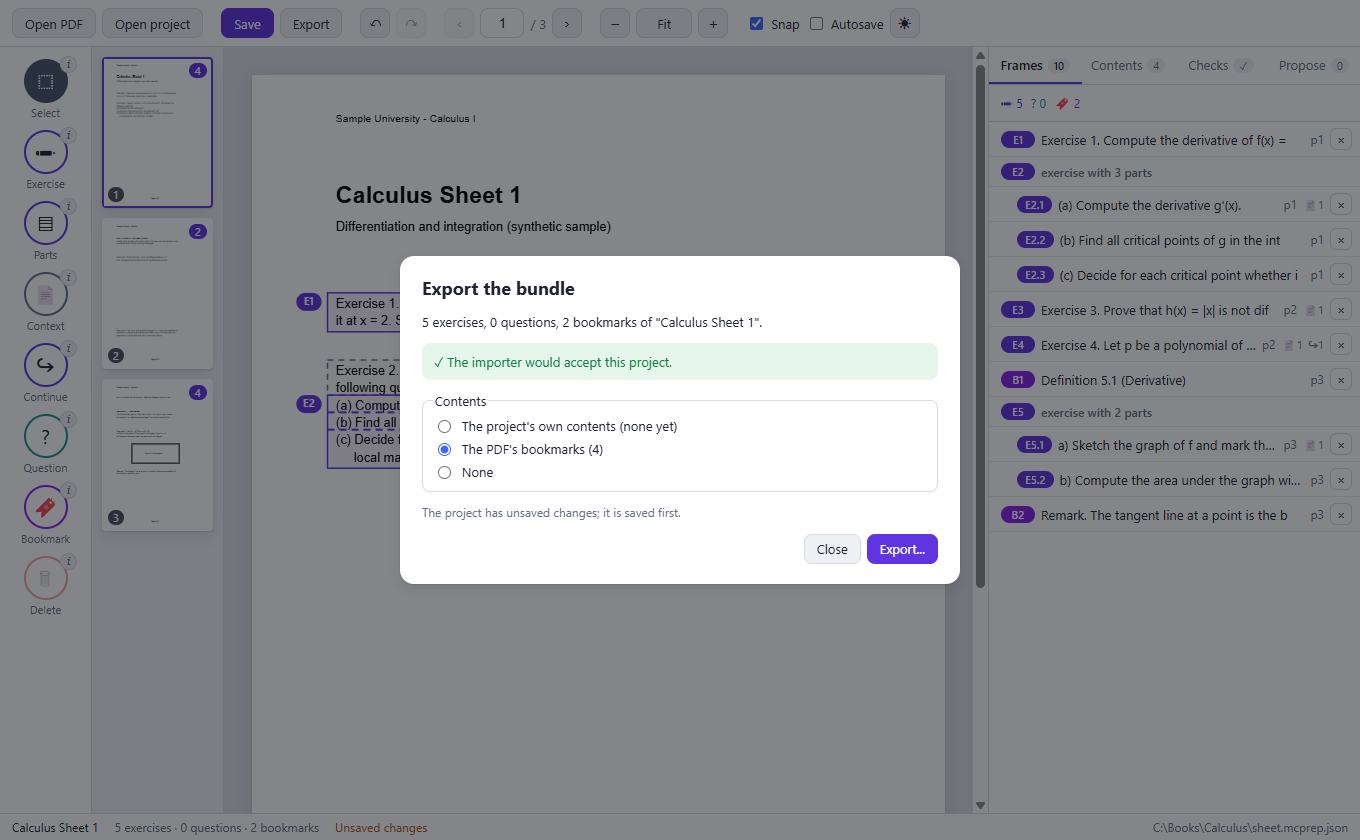
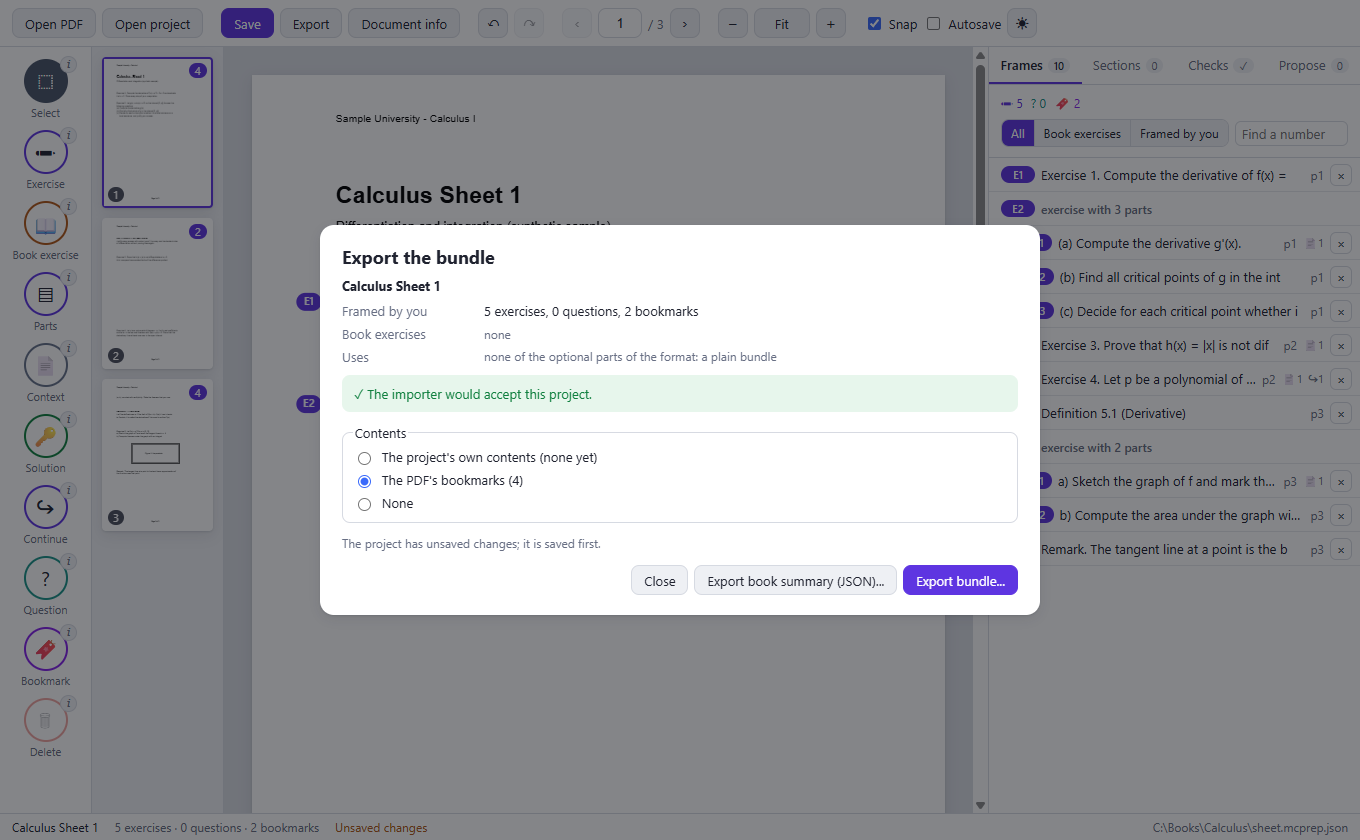
Desktop docs, three new screenshots and small fixes (checked before the merge of main, not yet after it)
DESKTOP.md describes the two kinds of exercise, solutions, the card, the Sections list, the
document information, the export dialog, the big book and what is not done; the agent guide
says how a person and an agent share a book; the README status line and counts follow. New
synthetic pictures: desktop-book, desktop-sections, desktop-book-export (the old contents
picture is gone, the other pictures are taken again). A drawn book exercise that waits for its
number is dropped when the page changes; the big-book test measures pauses with a timer, because
the long-task observer sees nothing in this window.

diff --git a/apps/desktop/test/big.e2e.test.ts b/apps/desktop/test/big.e2e.test.ts
@@ -96,6 +96,9 @@ describe.skipIf(!available)('the desktop app with a book of 5 000 exercises and 
     const target = (await framesOf(win())).find((frame) => frame.page === 0 && frame.label === '30') as { id: string };
     await win().locator('.frame[data-label="30"] .chip').first().click();
     expect(await stateOf(win(), (s) => s['selection'])).toBe(target.id);
+    // The list shows the frame that was chosen on the page.
+    await win().waitForSelector('.frames-list .frame-row.selected');
+    expect(await win().locator('.frames-list .frame-row.selected .chip').innerText()).toBe('30');
     // And so does its body.
     const body = await win().locator('.frame[data-label="31"] .body').first().boundingBox();
     expect(body).not.toBeNull();
@@ -106,12 +109,26 @@ describe.skipIf(!available)('the desktop app with a book of 5 000 exercises and 
   });
 
   it('stays smooth while scrolling the list, choosing frames in it and moving through the pages: no long pauses', async () => {
+    // The instrument: a timer every 20 ms in the window; how late it fires says how long the window was busy.
     await win().evaluate(() => {
-      const holder = window as unknown as { __long: number[] };
-      holder.__long = [];
-      new PerformanceObserver((list) => {
-        for (const entry of list.getEntries()) holder.__long.push(entry.duration);
-      }).observe({ entryTypes: ['longtask'] });
+      const holder = window as unknown as { __late: number[] };
+      holder.__late = [];
+      let last = performance.now();
+      setInterval(() => {
+        const now = performance.now();
+        holder.__late.push(now - last - 20);
+        last = now;
+      }, 20);
+    });
+    // It works: a pause of 150 ms made on purpose is seen (and then forgotten).
+    await win().evaluate(() => {
+      const until = performance.now() + 150;
+      while (performance.now() < until);
+    });
+    await win().waitForTimeout(100);
+    expect(Math.max(...(await win().evaluate(() => (window as unknown as { __late: number[] }).__late)))).toBeGreaterThan(100);
+    await win().evaluate(() => {
+      (window as unknown as { __late: number[] }).__late.length = 0;
     });
     // Scroll the list far down in steps, as a wheel does.
     const started = performance.now();
@@ -140,9 +157,10 @@ describe.skipIf(!available)('the desktop app with a book of 5 000 exercises and 
     for (let n = 0; n < 30; n += 1) await win().keyboard.press('ArrowRight');
     await win().waitForTimeout(300);
     timings['thirty pages with the arrow key'] = Math.round(performance.now() - walked);
-    const long = await win().evaluate(() => (window as unknown as { __long: number[] }).__long);
-    timings['longest pause'] = Math.round(Math.max(0, ...long));
-    expect(Math.max(0, ...long)).toBeLessThan(700);
+    const late = await win().evaluate(() => (window as unknown as { __late: number[] }).__late);
+    timings['longest pause'] = Math.round(Math.max(0, ...late));
+    expect(late.length).toBeGreaterThan(20);
+    expect(Math.max(0, ...late)).toBeLessThan(700);
   });
 
   it('lists by section, filters and finds by number', async () => {

diff --git a/apps/desktop/test/book.test.ts b/apps/desktop/test/book.test.ts
@@ -289,6 +289,15 @@ describe('the store: two kinds of exercise', () => {
     expect(store.state.project?.frames.map((frame) => frame.label).sort()).toEqual(['1', '2']);
   });
 
+  it('drops a drawn exercise that is waiting for its number when another page is shown', async () => {
+    const { store } = await started();
+    store.startDraft(0, row(0.33));
+    store.setPage(0);
+    expect(store.state.draft).not.toBeNull();
+    store.setPage(1);
+    expect(store.state.draft).toBeNull();
+  });
+
   it('keeps the form open and says what is wrong, in plain words, when the exercise cannot be filed', async () => {
     const { store } = await started(workbook({ exercises: true }));
     store.startDraft(0, row(0.5));

diff --git a/apps/desktop/src/renderer/logic/store.ts b/apps/desktop/src/renderer/logic/store.ts
@@ -479,7 +479,8 @@ export class Store {
     const { doc } = this.state;
     if (!doc) return;
     const clamped = Math.min(Math.max(0, Math.trunc(page)), doc.pageSizes.length - 1);
-    this.set({ page: clamped });
+    // A book exercise that was drawn and is waiting for its number belongs to the page it was drawn on.
+    this.set({ page: clamped, ...(this.state.draft !== null && this.state.draft.page !== clamped ? { draft: null } : {}) });
     void this.ensureText(clamped);
   }
 

diff --git a/docs/DESKTOP.md b/docs/DESKTOP.md
@@ -5,8 +5,10 @@ The desktop app is a visual editor for the same **project file** (`<name>.mcprep
 change and every check, so what it saves is what `mcprep validate` accepts, and what an agent saves shows up in the
 window within a second or two.
 
-It is for a person who wants to look at the page while marking it, or to review what an agent proposed. Nothing
-about it is required: an agent can do the whole job with [the command line](CLI.md) or [the MCP server](MCP.md).
+It is for a person who wants to look at the page while marking it, to review what an agent proposed, or to **audit a whole
+book once as an authority**: its exercises with the numbers the book prints, filed under the sections of the book, with the
+answers of the answer key attached as hidden solutions. Nothing about it is required: an agent can do the whole job with
+[the command line](CLI.md) or [the MCP server](MCP.md).
 
 ![The editor: an exercise with three parts selected, with its slicers and handles](img/desktop-editor.png)
 
@@ -37,18 +39,22 @@ Notes:
 
 ## Working in the window
 
-Top bar: **Open PDF**, **Open project**, **Save**, **Export**, undo and redo, the page pager, zoom (`Fit` fits the page to
-the width of the window), **Snap**, **Autosave** and the theme (system, dark, light). Left: the tools. Next to them: thumbnails with
-the number of frames on each page. Right: the panels. Bottom: the title, the counts, the save state and the project file.
+Top bar: **Open PDF**, **Open project**, **Save**, **Export**, **Document info**, undo and redo, the page pager, zoom (`Fit` fits
+the page to the width of the window), **Snap**, **Autosave** and the theme (system, dark, light). Left: the tools. Next to them:
+thumbnails with the number of frames on each page. Right: the card of the selected frame and the panels. Bottom: the title, the
+counts, the save state and the project file.
 
-Every tool has a small **i** next to it that says in one sentence what it does.
+Every tool has a small **i** next to it that says in one sentence what it does. A line above the page says what the tool in use
+will do and, for the tools that attach something to an exercise, which exercise that is.
 
 | Tool (key) | What it does |
 | --- | --- |
 | Select (V) | Click a frame to select it. Drag it to move it, drag a handle to resize it. The handles sit outside the outline. |
-| Exercise (E) | Drag around one exercise. A click on a line makes a one-line frame across the text block that line belongs to. |
-| Parts (P) | Drag around an exercise with parts. It is cut where the markers `(a)`, `(b)`, `1.`, ... are found, else once in the middle. A click on an existing frame cuts it. |
-| Context (C) | Select an exercise, then drag around its instruction or shared statement. |
+| Exercise (E) | Drag around one exercise you frame for yourself. A click on a line makes a one-line frame across the text block that line belongs to. |
+| Book exercise (A) | Drag around one exercise as the book prints it, then give its printed number and its section (see below). |
+| Parts (P) | Drag around an exercise with parts. It is cut where the markers `(a)`, `(b)`, `1.`, ... are found, else once in the middle. A click on an existing frame cuts it. Not for book exercises. |
+| Context (C) | Select an exercise (of either kind), then drag around its instruction or shared statement, on any page. |
+| Solution (L) | Select an exercise, go to the answer key (any page of the same PDF), then drag around its answer. Hidden from the learner. |
 | Continue (N) | Select a frame, then drag where it goes on (the next column or page). |
 | Question (Q) | Drag around what you want to ask the tutor about. |
 | Bookmark (B) | Drag around a definition or theorem to keep. |
@@ -62,30 +68,91 @@ at a slicer to join the two parts. The parts always tile the exercise exactly, s
 command line), so that a frame never cuts a line. It does not apply to scanned pages that have no text; there you place
 the edges by eye.
 
-The labels on the frames (E1, E2.1, B1, ...) are the numbers the Math Canvas app will show: they are computed from the
-position on the page (never stored) and renumber themselves when you add or remove a frame.
+The labels on the frames of exercises you framed yourself (E1, E2.1, B1, ...) are the numbers the Math Canvas app will show:
+they are computed from the position on the page (never stored) and renumber themselves when you add or remove a frame.
 
-Keys: `V E P C N Q B` choose a tool, `S` toggles snap, `Delete` removes the selected frame, `Esc` closes a dialog, leaves
-a tool, or deselects. `←` `→` (or `PageUp` `PageDown`) change the page, `+` `−` `0` zoom, `Ctrl+Z` undo, `Ctrl+Y` or
+Keys: `V E A P C L N Q B` choose a tool, `S` toggles snap, `Delete` removes the selected frame, `Esc` closes a dialog or a
+form, leaves a tool, or deselects. `←` `→` (or `PageUp` `PageDown`) change the page, `+` `−` `0` zoom, `Ctrl+Z` undo, `Ctrl+Y` or
 `Ctrl+Shift+Z` redo, `Ctrl+S` save, `Ctrl+E` export, `Ctrl+O` and `Ctrl+Shift+O` open a PDF or a project.
+
+### Two kinds of exercise
+
+- An **ordinary exercise** (tool Exercise, label `E1`, `E2.1`, ...) is one a person frames for themselves: free, positional
+  numbers, it can be cut into parts.
+- A **book exercise** (tool Book exercise, amber, a label with square corners) was audited from a book: it carries **the number
+  the book prints** (`5`, `5a`, `A.3`) and the **section** it is printed in, it is a single exercise, and it never has a
+  positional number. Both kinds can live in one project.
+
+After you draw a book exercise a small form asks for its **printed number** and its **section**. The section offered is the one
+at that place of the page (the deepest section of the outline that has an id and contains the position); the number offered is
+the next one in that section: the previous one plus 1, or `5b` after `5a`. So auditing a section is: draw, press Enter, draw,
+press Enter. The form says in plain words what is wrong (an empty or impossible number, a number the section already has, no
+section here) and `Esc` throws the drawing away. Nothing is added to the project until the form is confirmed.
+
+The **card** at the top of the side panel is the menu of the selected frame:
+
+- the printed number and the section of a book exercise, editable (one undoable step each);
+- **Make it a book exercise...** (the same form) and **Make it an ordinary exercise**, with the rules of the core: an exercise
+  with parts has to be joined first (the card has **Join the parts**), a number a section already has is refused;
+- its **context**, its hidden **solution** and its continuations: what is printed under each region, a button to show it on its
+  page (it is marked for a moment) and a button to remove it;
+- **Parts**: **Cut into parts** or **Join the parts** for an ordinary exercise; for a book exercise the button is off, with an
+  **i** that says why (the parts `5a` and `5b` of a printed exercise are two exercises with two labels; what they share, the
+  statement printed once, is context on each). The Parts tool says the same when you click a book exercise, and the core
+  refuses `split`, `dividers`, `area` and `merge` for it anyway.
+
+The core's messages are written for the command line; the window shows the rule in plain words (never a command to type).
+
+### Solutions
+
+A **solution** is a region of the same PDF, usually in the answer key at the back, that only the grader gets. Select the
+exercise, choose the Solution tool, go to the answer key (the exercise stays selected while the page changes) and drag around its
+answer. Solution regions are drawn **green and dashed with an `S` marker** and the number of the exercise, faintly for all
+exercises and strongly for the selected one, whose regions have a button to remove them right there. Clicking a region selects its
+exercise. The card lists them under "hidden from the learner" with what is printed under each; clicking one goes there. An exercise
+may have up to eight regions of each kind. A solution is never shown with the exercise, never sent to a tutor chat, and used only
+to grade (see [BUNDLE_FORMAT.md](BUNDLE_FORMAT.md)).
 
 ### The panels
 
-- **Frames** lists every frame in reading order with its label, its first words, its page and its context and
-  continuation markers. A click shows the page and scrolls the frame into view.
-- **Contents** is the table of contents that goes into the bundle: the project's own, or else the PDF's bookmarks. You can
-  copy the PDF's bookmarks to edit them, ask for headings found in the text (**Find headings**, offline), then rename,
-  indent, move, retarget or remove entries. Every entry shows how many exercises, questions and bookmarks it holds.
-- **Checks** runs the same validation as `mcprep validate`. A click on a message goes to the frame it is about.
-  A change that would add a new error is refused with a message that says why, like on the command line.
-- **Propose** reads the printed text of the whole PDF **offline, without any AI**, and suggests exercises, parts,
-  context and bookmarks. They appear as dashed ghost frames with a confidence; the **i** next to each says what the
-  suggestion is based on. Accept or reject one by one, or all at once. Nothing is changed until you accept. Accepted
-  exercises with a shared statement get it as context of their parts, which is the recommended convention.
+- **Frames** lists every frame with its label, its first words, its page and icons for its context (📄), solution (🔑) and
+  continuation (↪). Book exercises are **grouped by section** in the order of the book with the number the book prints, each group
+  in the order a book counts (2 before 10, `5a` before `5b`); what you framed yourself follows in reading order. A filter picks
+  **All**, **Book exercises** or **Framed by you**; the search finds a number (`5a`, `1.2:5a`) or a frame id; a click on a section
+  folds it, `↗` goes to its heading, and a click on a row shows the frame on its page and scrolls it into view (also the other way:
+  a frame chosen on the page is shown in the list). The list draws only the rows in view.
+- **Sections** is the table of contents that goes into the bundle: the project's own, which are the sections book exercises are filed
+  under. Each row shows the printed number, the title, the page, the id, the number of book exercises (own, and with everything
+  below in brackets) and how many of them have a solution. A click goes to the heading; folding hides a subtree; a filter shows the
+  sections still **without exercises**, with **exercises without a solution**, or **with problems**; the search finds a title, number
+  or id. **Add a section** (after the selected one, or **a subsection**), and for the selected section: title, printed number, id,
+  the page it starts on and where its heading is (type it, or **Pick the heading on the page** and click the line; the headings
+  are marked on the page while the panel is open), **Outdent/Indent** and **Move up/down** (always with everything below it) and
+  **Delete...** (the book exercises filed under it are moved to another section you choose first). Renaming an id takes the
+  exercises along. The list warns about ids used twice, sections without an id (with **Give ids**), and book exercises filed under
+  a section that does not exist. **Use the PDF's bookmarks** makes the PDF's own bookmarks the sections (with ids), **Find
+  headings** looks for headings in the printed text (offline), and **Use the PDF's contents** removes the project's own contents.
+- **Checks** runs the same validation as `mcprep validate`. A click on a message goes to the frame it is about. The rules about
+  books say what to do on the screen (not a command). A change that would add a new error is refused with a message that says why,
+  like on the command line.
+- **Propose** reads the printed text of the whole PDF **offline, without any AI**, and suggests exercises, parts, context and
+  bookmarks. They appear as dashed ghost frames with a confidence; the **i** next to each says what the suggestion is based on.
+  Accept or reject one by one, or all at once. Nothing is changed until you accept. Accepted exercises with a shared statement get
+  it as context of their parts, which is the recommended convention. Proposals are exercises you frame yourself; turn one into a
+  book exercise from the card.
+
+![A book exercise selected: the card with its context and hidden solution, the list by section, the printed numbers on the page](img/desktop-book.png)
+
+![The Sections: the outline as a tree with the book exercises and solutions under each section, the heading marked on its page](img/desktop-sections.png)
 
 ![Proposals as ghost frames, with the list of what was found and why](img/desktop-propose.png)
 
-![The contents with the number of exercises, questions and bookmarks of each section](img/desktop-contents.png)
+### Document information
+
+**Document info** sets what the bundle says about the work: the title and folder the library shows, the author, series,
+description, **licence** (name and address), the **source address** and the **notice** a licence asks to be shown with the work.
+The limits of the format are said next to each field (a licence address needs its name, an address starts with `http://` or
+`https://`); copy the licence and the notice from the book itself, do not make them up. It is one undoable step.
 
 ### Saving and exporting
 
@@ -94,10 +161,17 @@ program saved in the meantime, nothing is overwritten (see below). **Autosave** 
 until you turn it on. A failed save stays visible in the status bar and in a message. Closing the window with unsaved
 changes asks first.
 
-**Export** (`Ctrl+E`) shows the validation first. It lets you choose which contents go into the bundle (the project's own,
-the PDF's bookmarks, or none), saves the project if needed, writes the `.mcbundle`, and runs the importer check on the
-result before it says it worked. Afterwards **Show in folder** opens the folder and **Copy to a folder...** copies the
-bundle, for example into the folder the tablet imports from.
+**Export** (`Ctrl+E`) says what is about to be written before it is: the **optional parts of the format the bundle uses**
+(Sections, Book exercises, Hidden solutions; an app that does not know one ignores it), what it contains (the exercises, questions
+and bookmarks you framed, the book exercises per section and how many have a solution), the validation and its warnings. It lets
+you choose which contents go into the bundle (the project's own, the PDF's bookmarks, or none; a project with book exercises
+keeps its own, because they are filed under it), saves the project if needed, writes the `.mcbundle`, and runs the importer check
+on the result before it says it worked, with the result of each of the importer's steps. Afterwards **Show in folder** opens
+the folder and **Copy to a folder...** copies the bundle, for example into the folder the tablet imports from. **Export book summary
+(JSON)...** next to **Export bundle...** writes the plain JSON summary of the book (the sections with the number of book exercises
+and solutions in each, and each section's exercises) that `mcprep book export --exercises` writes, for other programs.
+
+![The export dialog of a book: the parts of the format it uses, what it holds per section](img/desktop-book-export.png)
 
 ![The export dialog: the importer would accept this project](img/desktop-export.png)
 
@@ -113,23 +187,40 @@ The window watches the project file. When a program such as `mcprep` or an MCP c
 
 An agent that edits the file while the window is open therefore needs no special care: it can work through the command
 line as usual, and the person sees the result and can correct it by hand. The window compares the content as well as the
-revision, so a change made with a text editor that did not raise the revision is noticed too.
+revision, so a change made with a text editor that did not raise the revision is noticed too. A book exercise that has been drawn
+but not yet confirmed in its form is not in the file; it is dropped when the page changes.
 
 ![The dark theme: the instruction shared by Exercises 3 and 4 is context, shown dashed](img/desktop-dark.png)
+
+## A big book
+
+A book can have thousands of exercises (two-column practice pages carry 44 small frames on one page) and hundreds of sections. The
+window keeps what it computes per version of the project (the lookups of the frames, the sections with their counts, the checks)
+instead of per keystroke, draws only the frames of the page that shows, makes the labels as tall as their frames allow and puts
+each in the free space beside its frame (hovering a frame, or selecting it, enlarges its label), and keeps the lists to the rows in
+view. The text of the pages is read in the background and checked once, not after every few pages. The selected frame's handles
+sit under its neighbours, so that a click on a neighbour selects the neighbour.
+
+`apps/desktop/test/helpers/big-book.ts` builds a synthetic workbook of 5,000 book exercises, 100 sections and an answer key of
+5,000 regions. On the Windows machine it was developed on, the built window shows it about a second after the program starts, has
+read the text of all 135 pages a second or two later, and then takes a fraction of a second for each of: choosing a frame in the
+list, drawing a book exercise and confirming its form, saving, and taking over a change the command line made. While the list was
+scrolled five times, a frame chosen in it and thirty pages turned, the window was never busy for more than about a tenth of a second.
+The tests assert generous limits (a slow or busy machine), not these numbers.
 
 ## What the window can and cannot do
 
 The window is built so that opening a document you did not write is safe, and so that nothing leaves the computer:
 
 - The page code has **no Node access** (sandbox, context isolation, no integration). The only bridge to the rest of the
-  system is a fixed list of 18 functions (open, read the PDF of the open project, read the text of a page, propose,
-  save, export, ...); the test suite checks the list.
+  system is a fixed list of 19 functions (open, read the PDF of the open project, read the text of a page, propose,
+  save, export the bundle, export the book summary, ...); the test suite checks the list.
 - It is served from the application folder under its own `mcprep-app://` address with a strict content policy
   (`default-src 'none'`, no inline script, no network). Every request to `http`, `https`, `ws`, `wss` or `ftp` is cancelled.
   Permission requests are denied. Navigation and new windows are blocked. The developer tools exist only in a checkout,
   not in the packaged application.
-- There is no telemetry, no update check, no account, no AI call. The PDF is read from where it is; the only copy that is ever
-  made is the one inside a bundle you export (and the one you copy to a folder yourself).
+- There is no telemetry, no update check, no account, no AI call. The PDF is read from where it is; the only copies that are ever
+  made are the one inside a bundle you export (and the one you copy to a folder yourself) and the summary file you ask for.
 - It stores a list of the twelve most recent projects (title and path; one that no longer exists is not offered) in the
   operating system's user-data folder for the application, and the preferences (theme, snap, autosave) in the window's local
   storage. Nothing else.
@@ -150,18 +241,34 @@ macOS and Linux targets are written down in the configuration but have not been 
 
 ## Tests
 
-- `apps/desktop/test/logic.test.ts` (26 tests): the editor's state, geometry, undo, saving, conflicts, proposals,
-  contents; no window needed. It runs with `npm test`.
-- `apps/desktop/test/app.e2e.test.ts` (17 tests): the built application driven by Playwright like a person (real mouse and
-  keyboard): drawing with snapping, moving, resizing, slicers, saving, an agent editing the file, the conflict dialog,
-  export and import check, proposals, the lock-down. It needs a display and the built bundle, so it is not part of the
-  continuous integration: `npm run build && npm run test:e2e`.
-- `npm run screenshots --workspace @mcprep/desktop` takes the pictures on this page from the synthetic sample.
+- `apps/desktop/test/*.test.ts` (102 tests, no window needed, they run with `npm test`): `logic.test.ts` the editor's state,
+  geometry, undo, saving, conflicts, proposals; `book.test.ts` printed numbers, the form's suggestions, the two kinds of exercise,
+  solutions and the plain words of the core's refusals, labels on a crowded page; `sections.test.ts` the rows of the Sections list
+  and every change of the outline; `info.test.ts` the document information and what the export dialog says; `perf.test.ts` the
+  synthetic big book (5,000 exercises, 100 sections): the work of the lists, the page and the store, and that it grows in step with
+  the book.
+- `apps/desktop/test/app.e2e.test.ts` (17 tests), `book.e2e.test.ts` (25) and `big.e2e.test.ts` (10): the built application driven
+  by Playwright like a person (real mouse and keyboard): drawing with snapping, moving, resizing, slicers, saving, an agent
+  editing the file, the conflict dialog, export and import check, proposals, the lock-down; the audit of a synthetic workbook
+  (book exercises with their forms, mark and unmark, context and solutions, the Sections list, the document information, the export
+  dialog and the summary, all read back by the command line); and the big book (opening, scrolling, choosing, drawing, saving,
+  live reload, readable labels). They need a display and the built bundle, so they are not part of the continuous integration:
+  `npm run build && npm run test:e2e`.
+- `npm run screenshots --workspace @mcprep/desktop` takes the pictures on this page from the synthetic samples.
 
 ## Known gaps
 
 - Mouse and keyboard first. Touch and pen input are not tuned, and the window is not meant for a small screen.
-- One window and one document at a time; no copy and paste of frames; no selecting several frames at once.
+- One window and one document at a time; no copy and paste of frames; no selecting several frames at once (so turning many
+  exercises into book exercises, or giving many the same context or section, is one at a time).
+- **Derive sections** (finding the chapters and sections of a book from its printed text, with ids and heading positions), and
+  proposals of book exercises and of solutions from the answer key, are not in the window yet: **Find headings** and **Propose**
+  suggest ordinary headings and exercises only, and a person (or an agent with the command line) files them under sections. The
+  Sections panel and the editor logic have a reserved place for them.
+- The number offered for a book exercise is the previous one plus 1 (or `5b` after `5a`); it does not know a book's jumps or
+  other ways of counting, so it is edited where the book differs.
+- A solution region is drawn one at a time for one exercise; there is no "this answer, then the next line for the next exercise".
+- The tree of sections is changed with buttons (deeper, shallower, up, down); there is no drag and drop.
 - A frame lies on one page; something that continues is marked with a continuation, as in the format.
 - The installer does not register `.pdf` or `.mcprep.json` with the system, and has no icon of its own.
 - Scanned pages have no text to snap to or to propose from; frames are placed by hand (see the

diff --git a/README.md b/README.md
@@ -21,7 +21,7 @@ Chapter 14 of the [agent guide](docs/AGENT_GUIDE.md) describes it; a transcript 
 | `packages/core` | Works. Model, rules, numbering, PDF reading and rendering, proposals, project file, bundle writer and importer check; authoritative book exercises, hidden solution regions, sections, document information (licence, notice) and the book summary. 598 tests. |
 | `packages/cli` (`mcprep`) | Works. The whole workflow, `--json` everywhere, and the audit of a book: `exercises`, `solution`, `book` and `outline` commands. 69 tests, plus two end-to-end tests of the built binary. |
 | `packages/mcp` | Works. 49 tools over stdio. 12 tests, plus an end-to-end test of the built server. |
-| `apps/desktop` | Works on Windows (packaged and run). A visual editor with live reload of changes an agent makes to the file. 26 unit tests and 17 end-to-end tests that drive the built application. Not signed, no icon of its own, not tried on macOS or Linux: see [docs/DESKTOP.md](docs/DESKTOP.md). It has no screens yet for book exercises, solutions and sections: a project that has them still opens and saves, and the command line and the MCP server edit them. |
+| `apps/desktop` | Works on Windows (packaged and run). A visual editor with live reload of changes an agent makes to the file, and for auditing a book: book exercises with their printed numbers and sections, hidden solutions drawn on the answer key, the list of sections, the licence and notice of the document, an export that says which parts of the format the bundle uses and checks it as the importer does, and lists that stay quick with 5,000 exercises. 102 unit tests and 52 end-to-end tests that drive the built application. Not signed, no icon of its own, not tried on macOS or Linux; finding the sections of a book from its text and proposing book exercises and solutions are not in the window yet: see [docs/DESKTOP.md](docs/DESKTOP.md). |
 | Docs | [Agent guide](docs/AGENT_GUIDE.md), [CLI](docs/CLI.md), [MCP](docs/MCP.md), [desktop app](docs/DESKTOP.md), [project file](docs/PROJECT_FILE.md), [bundle format](docs/BUNDLE_FORMAT.md), [dependencies](docs/DEPENDENCIES.md). |
 
 The bundle format ([docs/BUNDLE_FORMAT.md](docs/BUNDLE_FORMAT.md)) is the contract with the Android app; the writer and the
@@ -70,8 +70,10 @@ npm run desktop -- analysis.pdf          # or without a file name, for the welco
 ```
 
 Draw around the exercises (or press **Find proposals** and accept what is right), cut exercises into parts with the slicers,
-check the **Checks** tab, press **Export**, and copy the `.mcbundle` to the tablet. [docs/DESKTOP.md](docs/DESKTOP.md) explains the
-window. If an agent is marking the same PDF with the command line, its changes appear in the window as it saves them.
+check the **Checks** tab, press **Export**, and copy the `.mcbundle` to the tablet. To audit a book, set up its **Sections**,
+draw each printed exercise with the **Book exercise** tool (the window asks for its number and offers the next one), attach the
+answers of the answer key with the **Solution** tool, fill in **Document info**, and export. [docs/DESKTOP.md](docs/DESKTOP.md)
+explains the window. If an agent is marking the same PDF with the command line, its changes appear in the window as it saves them.
 
 ## What is in this repository
 
@@ -109,7 +111,7 @@ generated.
 
 ```console
 npm run build        # TypeScript for the packages, the desktop app's bundles
-npm test             # unit tests (Vitest, against the sources): 705 tests
+npm test             # unit tests (Vitest, against the sources): 781 tests
 npm run lint
 npm run test:e2e     # the built binary, the MCP server over stdio and the desktop app (build first; the desktop test needs a display)
 npm run docs         # regenerate docs/CLI.md and the tool reference of docs/MCP.md

diff --git a/docs/AGENT_GUIDE.md b/docs/AGENT_GUIDE.md
@@ -121,6 +121,23 @@ using the commands (or the MCP tools).
 - Do not try to operate the window; everything it can do is a command. Do not edit `name.mcprep.json` by hand with a text tool
   unless you have to: the commands validate, lock and keep the file consistent.
 
+The window knows the **two kinds of exercise** of chapter 14, so a person and an agent can share a book:
+
+- A book exercise you add (`exercises add`) shows in the window with its **printed label** (`5a`, never an `E` number), grouped by
+  section, in amber with square labels; the exercises the person frames themselves stay `E1`, `E2.1`, ... and are not renumbered by
+  yours. Leave their ordinary exercises alone unless asked: `exercises mark` and `exercises unmark` change a kind, and the person
+  can do the same from the card of a frame (a part of an exercise with parts has to be joined first, as for you).
+- The person can **draw** a book exercise (the window asks for its number and section and offers the next number in the section),
+  change its label or section, attach **context** and **solution** regions (the solutions are drawn on the answer key, in green),
+  and add, rename, move or delete **sections**. Every one of those is the operation you know (`label.set`, `section.set`,
+  `solution.add`, `outline.update`, ...), so your next `exercises list`, `book show` or `solution list --missing` already reflects
+  it, and a section id they renamed keeps its exercises. Read before you assume ids and labels, and say which sections or labels
+  you are going to touch.
+- What the person draws but has not confirmed yet (the form that waits for a number) is not in the file, so you cannot collide
+  with it. A change of yours that makes the person's unsaved edit conflict asks them which version to keep, as above.
+- The person sees your sections as a tree with the number of book exercises under each and how many have a solution: the same
+  counts as `book show`. A section with no `id` cannot hold exercises, and the window says so; give ids (`outline ids`).
+
 ## 5. Deciding what to mark
 
 ### Exercises
